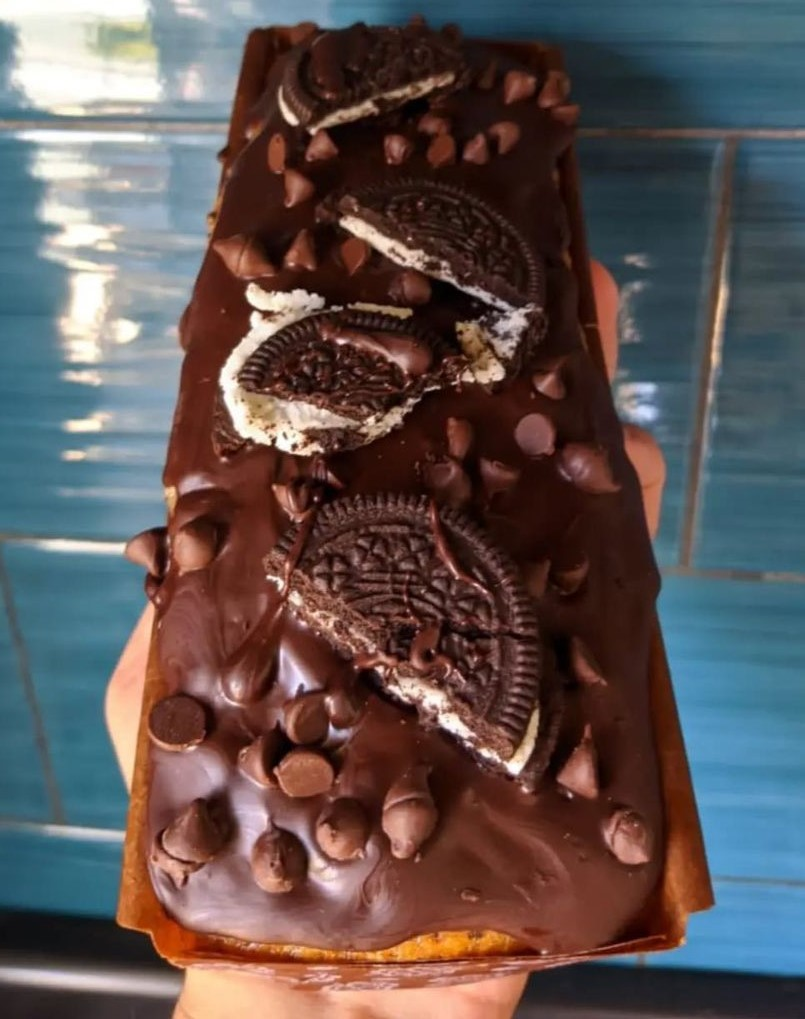
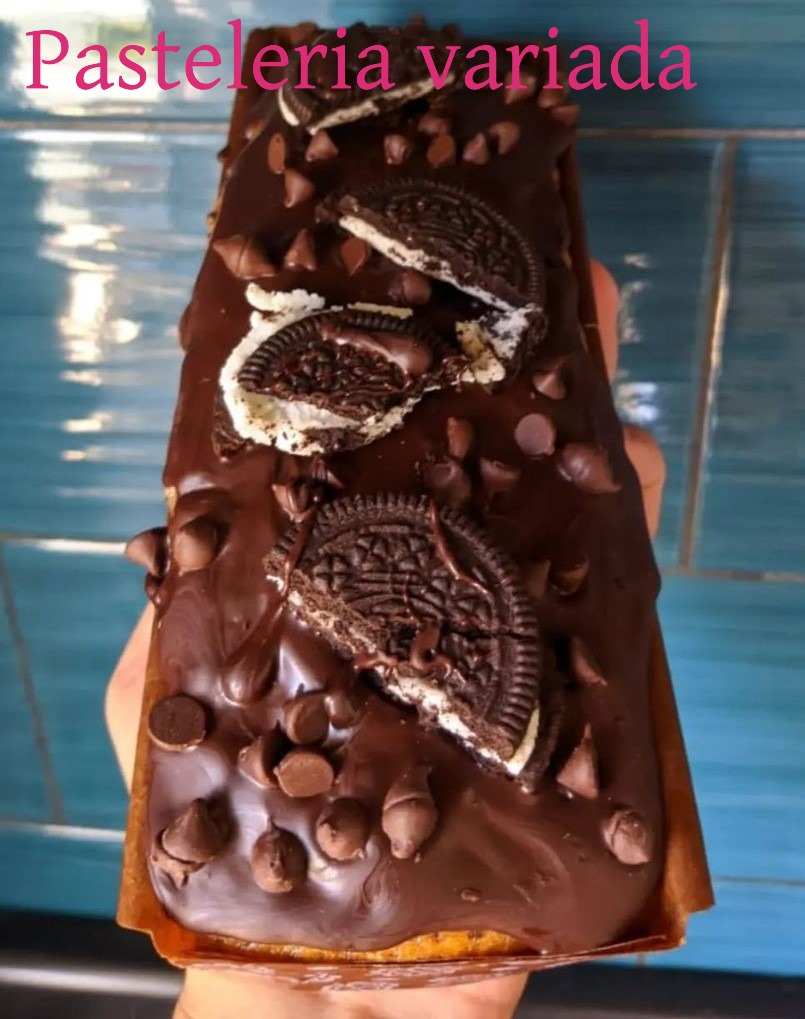
new imgs

Changed region(s): [[0.0311, 0.0, 0.4969, 0.0913], [0.528, 0.0, 0.8696, 0.0913]]

diff --git a/src/components/Home/Home.jsx b/src/components/Home/Home.jsx
@@ -48,7 +48,6 @@ const Home = ({handleSelect, index}) => {
               <Link to="/category/tortaClasica">
             <img src={foto3} alt="clasicas" className='home-card-img'/>
               </Link>
-            <p>Tortas clasicas</p>
             </div>
 
 
@@ -56,20 +55,17 @@ const Home = ({handleSelect, index}) => {
             <Link to="/category/tortaPersonalizada">
             <img src={foto8} alt="personalizadas" className='home-card-img' />
             </Link>
-            <p>Tortas personalizadas</p>
           </div>
 
           <div className="home-categories-card">
             <Link to="/category/variada">
             <img src={foto7} alt="variadas" className='home-card-img'/>
             </Link>
-            <p>Pasteleria variada</p>
             </div>
           <div className="home-categories-card">
             <Link to="/category/box">
             <img src={foto5} alt="box" className='home-card-img'/>
             </Link>
-            <p>Box</p>
           </div>
         </div>
       </div>
